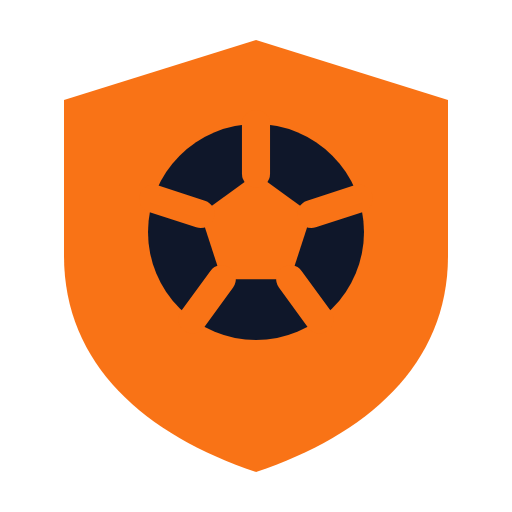
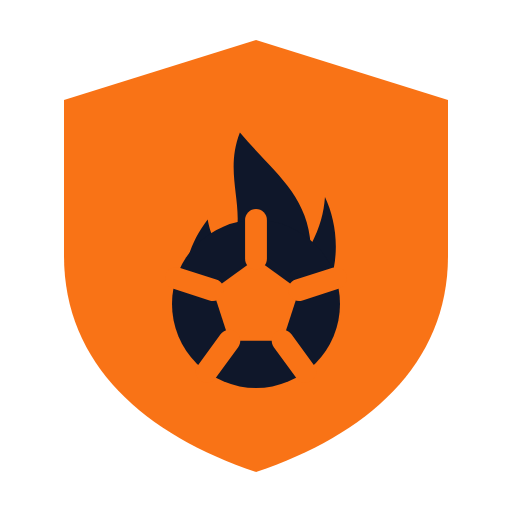
Le ballon prend feu
Le ballon posé au centre de l'écusson était correct et mort. Treize pistes
essayées, en trois familles.

**Le mouvement** — traînées, comète, sillage courbe, chevrons — dit *vite*,
pas *passion*, et se brouille sous vingt-quatre pixels : la comète fait un
piment, les chevrons une flèche. **L'emblème** — l'écharpe du maillot, la
jambe qui frappe, l'écusson crevé par le ballon — échoue aussi : l'écharpe
avale le ballon, la frappe meurt à vingt pixels, l'écusson crevé devient du
bruit.

Reste **le feu**, et il a fallu deux essais. Une flamme est **une seule
silhouette** : en trois langues séparées elle fait une couronne, un trident,
des cornes de diable. D'un seul tenant — un corps bombé, une pointe haute, un
décroché à gauche, une langue à droite — elle se reconnaît encore à seize
pixels, et en une seule encre, l'épreuve qui avait éliminé la moitié des
pistes des tours précédents.

Le feu a tranché une hésitation de couleur. Une flamme orange sur un écusson
marine est plus littérale, et plus belle en grand — mais cet écusson-là
disparaît sur le fond marine de l'application. Le feu reste donc en creux, et
c'est l'écusson qui porte l'orange.

Cinq nombres portent le dessin, arrêtés en rendant les variantes côte à côte
sur les deux fonds et en une seule encre : ballon à 38, rayon 10,5, flamme 29,
pentagone 0,54, coutures 0,26. Le README dit ce qu'on perd en s'en écartant.

Le pentagone reste calculé ; la flamme, elle, est tracée — une courbe qui doit
[…]

Changed region(s): [[0.2812, 0.2188, 0.7188, 0.7812]]

diff --git a/apps/web/src/components/brand/uno-mark.tsx b/apps/web/src/components/brand/uno-mark.tsx
@@ -33,17 +33,22 @@ export function UnoMark({
       >
         <mask id="uno-ballon">
           <rect width="64" height="64" fill="#fff" />
-          <circle cx="32" cy="29.0" r="13.5" fill="#000" />
+          <g fill="#000">
+            <g transform="translate(5.82 9.31) scale(0.8056)">
+              <path d="M32 45 C21 41 18.5 31 25 22.5 C25.8 27 28 28 29.2 26 C30.8 20 27.5 15.5 30 9 C35 15 40.5 18.5 41 26.5 C42.5 23.5 43 21.5 43.2 19 C46.5 26 46 38 32 45 Z" />
+            </g>
+          </g>
+          <circle cx="32" cy="38.0" r="10.5" fill="#000" />
           <path
-            d="M32.00 21.71 38.93 26.75 36.28 34.90 27.72 34.90 25.07 26.75Z"
+            d="M32.00 32.33 37.39 36.25 35.33 42.59 28.67 42.59 26.61 36.25Z"
             fill="#fff"
           />
-          <g stroke="#fff" strokeWidth="3.51" strokeLinecap="round">
-            <path d="M32.00 21.71 32.00 15.50" />
-            <path d="M38.93 26.75 44.84 24.83" />
-            <path d="M36.28 34.90 39.94 39.92" />
-            <path d="M27.72 34.90 24.06 39.92" />
-            <path d="M25.07 26.75 19.16 24.83" />
+          <g stroke="#fff" strokeWidth="2.73" strokeLinecap="round">
+            <path d="M32.00 32.33 32.00 27.50" />
+            <path d="M37.39 36.25 41.99 34.76" />
+            <path d="M35.33 42.59 38.17 46.49" />
+            <path d="M28.67 42.59 25.83 46.49" />
+            <path d="M26.61 36.25 22.01 34.76" />
           </g>
         </mask>
         <path
@@ -66,17 +71,22 @@ export function UnoMark({
         d="M32 5 56 12.5V32c0 13.6-10.2 22.4-24 27C18.2 54.4 8 45.6 8 32V12.5Z"
         fill="#F97316"
       />
-      <circle cx="32" cy="29.0" r="13.5" fill="#0F172A" />
+      <g fill="#0F172A">
+        <g transform="translate(5.82 9.31) scale(0.8056)">
+          <path d="M32 45 C21 41 18.5 31 25 22.5 C25.8 27 28 28 29.2 26 C30.8 20 27.5 15.5 30 9 C35 15 40.5 18.5 41 26.5 C42.5 23.5 43 21.5 43.2 19 C46.5 26 46 38 32 45 Z" />
+        </g>
+      </g>
+      <circle cx="32" cy="38.0" r="10.5" fill="#0F172A" />
       <path
-        d="M32.00 21.71 38.93 26.75 36.28 34.90 27.72 34.90 25.07 26.75Z"
+        d="M32.00 32.33 37.39 36.25 35.33 42.59 28.67 42.59 26.61 36.25Z"
         fill="#F97316"
       />
-      <g stroke="#F97316" strokeWidth="3.51" strokeLinecap="round">
-        <path d="M32.00 21.71 32.00 15.50" />
-        <path d="M38.93 26.75 44.84 24.83" />
-        <path d="M36.28 34.90 39.94 39.92" />
-        <path d="M27.72 34.90 24.06 39.92" />
-        <path d="M25.07 26.75 19.16 24.83" />
+      <g stroke="#F97316" strokeWidth="2.73" strokeLinecap="round">
+        <path d="M32.00 32.33 32.00 27.50" />
+        <path d="M37.39 36.25 41.99 34.76" />
+        <path d="M35.33 42.59 38.17 46.49" />
+        <path d="M28.67 42.59 25.83 46.49" />
+        <path d="M26.61 36.25 22.01 34.76" />
       </g>
     </svg>
   );

diff --git a/docs/branding/genere.py b/docs/branding/genere.py
@@ -8,7 +8,8 @@ ajustement — et l'on s'en aperçoit le jour où l'icône du téléphone ne
 ressemble plus au favori de l'onglet.
 
 Le pentagone du ballon est **calculé**, jamais recopié : dessiné à la main il
-penche toujours un peu, et c'est la première chose que l'œil voit.
+penche toujours un peu, et c'est la première chose que l'œil voit. La flamme,
+elle, est tracée : une courbe qui doit avoir l'air vivante ne se calcule pas.
 """
 
 import math
@@ -25,9 +26,21 @@ DEPOT = RACINE.parent.parent
 # L'écusson : la forme que porte toute ligue de football.
 ECUSSON = "M32 5 56 12.5V32c0 13.6-10.2 22.4-24 27C18.2 54.4 8 45.6 8 32V12.5Z"
 
-# Le ballon, réglé au pixel près (voir README, « Les quatre réglages »).
-BALLON_Y = 29.0      # remonté : la pointe de l'écusson respire en dessous
-BALLON_R = 13.5      # assez large pour se lire, assez étroit pour laisser un bord
+# La flamme, décrite une fois dans la boîte de 64, puis posée à l'échelle.
+# Un corps bombé, une pointe haute, un décroché à gauche et une langue à
+# droite. **D'un seul tenant** : trois langues séparées font une couronne ou
+# un trident, jamais un feu — c'est l'essai qui a coûté un tour de dessin.
+FLAMME = ("M32 45 C21 41 18.5 31 25 22.5 C25.8 27 28 28 29.2 26 "
+          "C30.8 20 27.5 15.5 30 9 C35 15 40.5 18.5 41 26.5 "
+          "C42.5 23.5 43 21.5 43.2 19 C46.5 26 46 38 32 45 Z")
+# Boîte utile du tracé ci-dessus, mesurée une fois pour toutes.
+FLAMME_BOITE = (18.5, 46.5, 9.0, 45.0)  # x0, x1, y0, y1
+
+# Le ballon et sa flamme, réglés au pixel près (voir README, « Les réglages »).
+BALLON_Y = 38.0      # le ballon repose en bas : le feu monte au-dessus
+BALLON_R = 10.5      # assez large pour se lire sous la flamme
+FLAMME_H = 29.0      # la flamme domine sans écraser le ballon
+ASSISE = 0.72        # d'où part la flamme, en part du rayon sous le centre
 PENTAGONE = 0.54     # part du rayon occupée par le pentagone central
 COUTURE = 0.26       # épaisseur des coutures, en part du rayon
 
@@ -51,16 +64,31 @@ def _ballon() -> tuple[str, str, float]:
 PENTA, TRAITS, EP = _ballon()
 
 
-def marque() -> str:
-    """L'écusson plein, le ballon en creux.
+def _flamme() -> str:
+    """La flamme, mise à l'échelle, centrée sur le ballon et posée dessus."""
+    x0, x1, y0, y1 = FLAMME_BOITE
+    k = FLAMME_H / (y1 - y0)
+    bas = BALLON_Y + BALLON_R * ASSISE
+    tx = 32 - (x0 + x1) / 2 * k
+    ty = bas - y1 * k
+    return (f'<g transform="translate({tx:.2f} {ty:.2f}) scale({k:.4f})">'
+            f'<path d="{FLAMME}"/></g>')
 
-    Le ballon est un disque **marine posé** plutôt qu'évidé : évidé, la marque
-    prendrait la couleur de ce qu'elle a derrière, et se dissoudrait sur un
-    fond sombre. Rempli, elle est autonome — sur le marine de l'application
-    comme sur le blanc d'un document.
+
+FEU = _flamme()
+
+
+def marque() -> str:
+    """L'écusson plein, le ballon embrasé en creux.
+
+    Le ballon et sa flamme sont des formes **marine posées** plutôt
+    qu'évidées : évidées, la marque prendrait la couleur de ce qu'elle a
+    derrière et se dissoudrait sur un fond sombre. Remplies, elle est autonome
+    — sur le marine de l'application comme sur le blanc d'un document.
     """
     return (
         f'<path d="{ECUSSON}" fill="{ORANGE}"/>'
+        f'<g fill="{NAVY}">{FEU}</g>'
         f'<circle cx="32" cy="{BALLON_Y}" r="{BALLON_R}" fill="{NAVY}"/>'
         f'<path d="{PENTA}" fill="{ORANGE}"/>'
         f'<g stroke="{ORANGE}" stroke-width="{EP:.2f}" stroke-linecap="round">'
@@ -69,15 +97,18 @@ def marque() -> str:
 
 
 def une_encre(ident: str, encre: str) -> str:
-    """La même silhouette dans une seule encre : le ballon y est **évidé**.
+    """La même silhouette dans une seule encre : le feu y est **évidé**.
 
     C'est le cas du maillot brodé, du badge de notification et du texte
-    monochrome. Posé plein, le ballon disparaîtrait : deux formes de la même
-    couleur, l'une sur l'autre, ne font qu'une tache.
+    monochrome. Posés pleins, la flamme et le ballon disparaîtraient : deux
+    formes de la même couleur, l'une sur l'autre, ne font qu'une tache. Le
+    pentagone et les coutures, eux, reviennent en plein dans le creux — sans
+    eux le ballon ne serait qu'un rond.
     """
     return (
         f'<mask id="{ident}">'
         '<rect width="64" height="64" fill="#fff"/>'
+        f'<g fill="#000">{FEU}</g>'
         f'<circle cx="32" cy="{BALLON_Y}" r="{BALLON_R}" fill="#000"/>'
         f'<path d="{PENTA}" fill="#fff"/>'
         f'<g stroke="#fff" stroke-width="{EP:.2f}" stroke-linecap="round">{TRAITS}</g>'

diff --git a/docs/branding/famille.py b/docs/branding/famille.py
@@ -72,8 +72,9 @@ PAGE = f"""<!doctype html><html lang="fr"><meta charset="utf-8"><title>UNO Leagu
    <div class="boite sombre">{vue(MARQUE, 76)}<span class="mot">UNO <em>LEAGUE</em></span></div>
    <div class="boite clair">{vue(MARQUE, 76)}<span class="mot encre">UNO <em>LEAGUE</em></span></div>
   </div>
-  <p class="note">Le ballon est un disque marine <b>posé</b> dans l'écusson, non
-  découpé : la marque ne change pas selon ce qu'elle a derrière.</p>
+  <p class="note">Le ballon et sa flamme sont des formes marine <b>posées</b>
+  dans l'écusson, non découpées : la marque ne change pas selon ce qu'elle a
+  derrière.</p>
  </section>
 
  <section>
@@ -90,8 +91,9 @@ PAGE = f"""<!doctype html><html lang="fr"><meta charset="utf-8"><title>UNO Leagu
    <div class="boite sombre" style="gap:22px">{ECHELLE_MONO_SOMBRE}</div>
    <div class="boite clair" style="gap:22px">{ECHELLE_MONO_CLAIR}</div>
   </div>
-  <p class="note">Ici le ballon est <b>évidé</b> : posé plein, il disparaîtrait
-  dans l'écusson de la même couleur.</p>
+  <p class="note">Ici le feu est <b>évidé</b> : posé plein, il disparaîtrait
+  dans l'écusson de la même couleur. Le pentagone et les coutures, eux,
+  reviennent en plein — sans eux le ballon ne serait qu'un rond.</p>
  </section>
 
  <section>
@@ -108,7 +110,7 @@ PAGE = f"""<!doctype html><html lang="fr"><meta charset="utf-8"><title>UNO Leagu
  <section>
   <h3>La palette</h3>
   <div class="palette">
-   <div class="pastille" style="background:{NAVY}"><b>Marine</b>{NAVY} — fond, ballon</div>
+   <div class="pastille" style="background:{NAVY}"><b>Marine</b>{NAVY} — fond, ballon, flamme</div>
    <div class="pastille" style="background:{ORANGE}"><b>Orange</b>{ORANGE} — écusson, accent</div>
   </div>
  </section>

diff --git a/docs/branding/README.md b/docs/branding/README.md
@@ -5,9 +5,9 @@ référence est **`mark.svg`** ; tout le reste — les cinq autres SVG, le favor
 du site, le composant React, les PNG de l'application, la couverture du
 dossier — en découle par script, jamais à la main.
 
-## Pourquoi un écusson, et un ballon dedans
+## Pourquoi un écusson, et un ballon en feu dedans
 
-Trois tours de dessin, et chacun a éliminé quelque chose.
+Quatre tours de dessin, et chacun a éliminé quelque chose.
 
 **Le premier a choisi la forme.** Quatre pistes rendues côte à côte — un
 écusson, un ballon logé dans un U, un terrain vu du dessus, trois barres de
@@ -23,7 +23,7 @@ La frappe est la plus belle à quatre-vingt-seize pixels et la première à
 mourir en dessous de trente-deux ; le U porteur encombre le ballon d'un
 anneau. Reste le ballon.
 
-**Le troisième a inversé les valeurs**, et c'est lui qui a fait le logo.
+**Le troisième a inversé les valeurs.**
 Jusque-là l'écusson était marine, cerné d'un filet orange, et le ballon blanc
 posé dedans : trois couleurs, un contour fin, et à seize pixels le filet
 disparaissait avant tout le reste. La version retenue fait l'inverse —
@@ -31,35 +31,58 @@ disparaissait avant tout le reste. La version retenue fait l'inverse —
 contour, et une masse qui tient à n'importe quelle taille. C'est aussi la
 version qui se brode : une forme pleine et un creux, rien d'autre.
 
-## Les quatre réglages
+**Le quatrième a mis le feu**, parce qu'un ballon posé au centre d'un écusson
+est correct et mort. Treize pistes, en trois familles : le mouvement
+(traînées, comète, sillage, chevrons), l'emblème (l'écharpe du maillot, la
+jambe qui frappe, l'écusson crevé par le ballon) et le feu. Les deux premières
+familles échouent pour la même raison — elles disent _vite_, elles ne disent
+pas _passion_ — et la plupart se brouillent sous vingt-quatre pixels : la
+comète fait un piment, les chevrons une flèche, l'écharpe avale le ballon.
 
-Le dessin tient à quatre nombres, en tête de `genere.py`. Ils ont été arrêtés
-en rendant les variantes côte à côte à 64, 48, 32, 24, 20 et 16 pixels, sur
-les deux fonds — c'est la seule épreuve qui départage, l'œil se trompe à
-grande taille.
+Reste le feu, et il a fallu un tour pour l'obtenir : **une flamme est une
+seule silhouette**. Essayée en trois langues séparées, elle fait une couronne,
+un trident, des cornes de diable — jamais un feu. D'un seul tenant, avec une
+pointe haute, un décroché à gauche et une langue à droite, elle se reconnaît
+encore à seize pixels, et en une seule encre.
 
-| Réglage     | Valeur | Ce qu'on perd en s'en écartant                                                |
-| ----------- | ------ | ----------------------------------------------------------------------------- |
-| `BALLON_Y`  | 29     | À 30, la pointe de l'écusson est à l'étroit sous le ballon.                   |
-| `BALLON_R`  | 13,5   | À 14, l'écusson n'est plus qu'un liseré et s'efface sur blanc.                |
-| `PENTAGONE` | 0,54   | À 0,50, les branches s'allongent : ce n'est plus un ballon, c'est une étoile. |
-| `COUTURE`   | 0,26   | En dessous de 0,22, les coutures se dissolvent à seize pixels.                |
+Le feu a aussi tranché une hésitation de couleur. Une flamme orange sur un
+écusson marine est plus littérale — mais cet écusson-là **disparaît sur le
+fond marine de l'application**. Le feu reste donc en creux, et c'est l'écusson
+qui porte l'orange.
 
-Le pentagone est **calculé**, jamais recopié. Dessiné à la main il penche
-toujours un peu, et c'est la première chose que l'œil voit.
+## Les réglages
+
+Le dessin tient à cinq nombres, en tête de `genere.py`. Ils ont été arrêtés en
+rendant les variantes côte à côte à 64, 48, 32, 24, 20 et 16 pixels, sur les
+deux fonds **et en une seule encre** — c'est la seule épreuve qui départage,
+l'œil se trompe à grande taille.
+
+| Réglage     | Valeur | Ce qu'on perd en s'en écartant                                                   |
+| ----------- | ------ | -------------------------------------------------------------------------------- |
+| `BALLON_Y`  | 38     | Plus bas, le ballon touche la pointe ; plus haut, le feu manque de ciel.         |
+| `BALLON_R`  | 10,5   | À 11,5 la flamme n'est plus qu'une touffe ; à 9 le ballon s'efface en une encre. |
+| `FLAMME_H`  | 29     | À 31 le feu domine et l'on ne lit plus le football.                              |
+| `PENTAGONE` | 0,54   | À 0,50, les branches s'allongent : ce n'est plus un ballon, c'est une étoile.    |
+| `COUTURE`   | 0,26   | En dessous de 0,22, les coutures se dissolvent à seize pixels.                   |
+
+Le pentagone est **calculé**, jamais recopié : dessiné à la main il penche
+toujours un peu, et c'est la première chose que l'œil voit. La flamme, elle,
+est tracée — une courbe qui doit avoir l'air vivante ne se calcule pas.
 
 ## Plein ou évidé : les deux ne servent pas au même
 
 C'est la seule subtilité du dessin, et elle est facile à prendre à l'envers.
 
-- **`mark.svg` : le ballon est un disque marine _posé_.** La marque est alors
-  autonome — sur le marine de l'application comme sur le blanc d'un document,
-  elle est identique. Un ballon évidé prendrait la couleur du fond et se
-  dissoudrait sur le marine.
-- **`mark-mono.svg` et `badge.svg` : le ballon est _évidé_.** Là il n'y a
-  qu'une encre : un ballon plein de cette même encre ne ferait qu'une tache
-  avec l'écusson. C'est le cas du maillot brodé, du tampon, et de la
-  notification Android — dont le système ne garde que la silhouette.
+- **`mark.svg` : le ballon et sa flamme sont _posés_, en marine.** La marque
+  est alors autonome — sur le marine de l'application comme sur le blanc d'un
+  document, elle est identique. Évidés, ils prendraient la couleur du fond et
+  se dissoudraient sur le marine.
+- **`mark-mono.svg` et `badge.svg` : le feu est _évidé_.** Là il n'y a qu'une
+  encre : une flamme pleine de cette même encre ne ferait qu'une tache avec
+  l'écusson. C'est le cas du maillot brodé, du tampon, et de la notification
+  Android — dont le système ne garde que la silhouette. Le pentagone et les
+  coutures, eux, reviennent en plein dans le creux : sans eux, le ballon ne
+  serait qu'un rond sous une flamme.
 
 ## Les fichiers
 
@@ -136,7 +159,7 @@ corrige plus.
 
 ## La palette
 
-| Usage                                  | Couleur   |
-| -------------------------------------- | --------- |
-| Écusson, accent, « LEAGUE »            | `#F97316` |
-| Fond de l'application, ballon en creux | `#0F172A` |
+| Usage                                            | Couleur   |
+| ------------------------------------------------ | --------- |
+| Écusson, accent, « LEAGUE »                      | `#F97316` |
+| Fond de l'application, ballon et flamme en creux | `#0F172A` |
